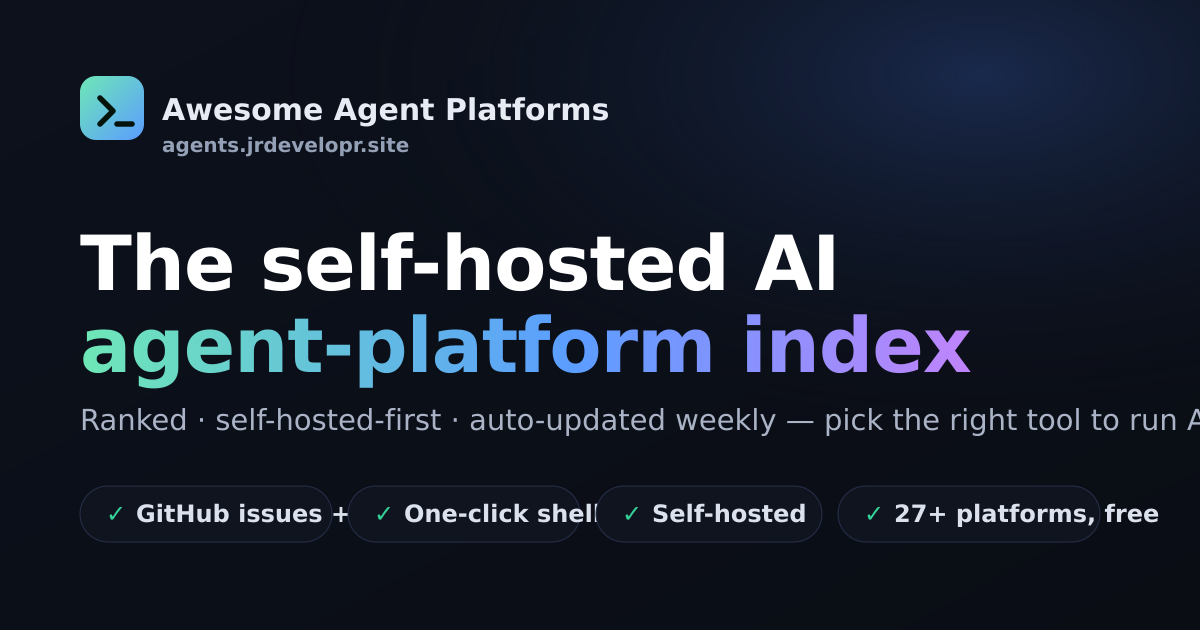
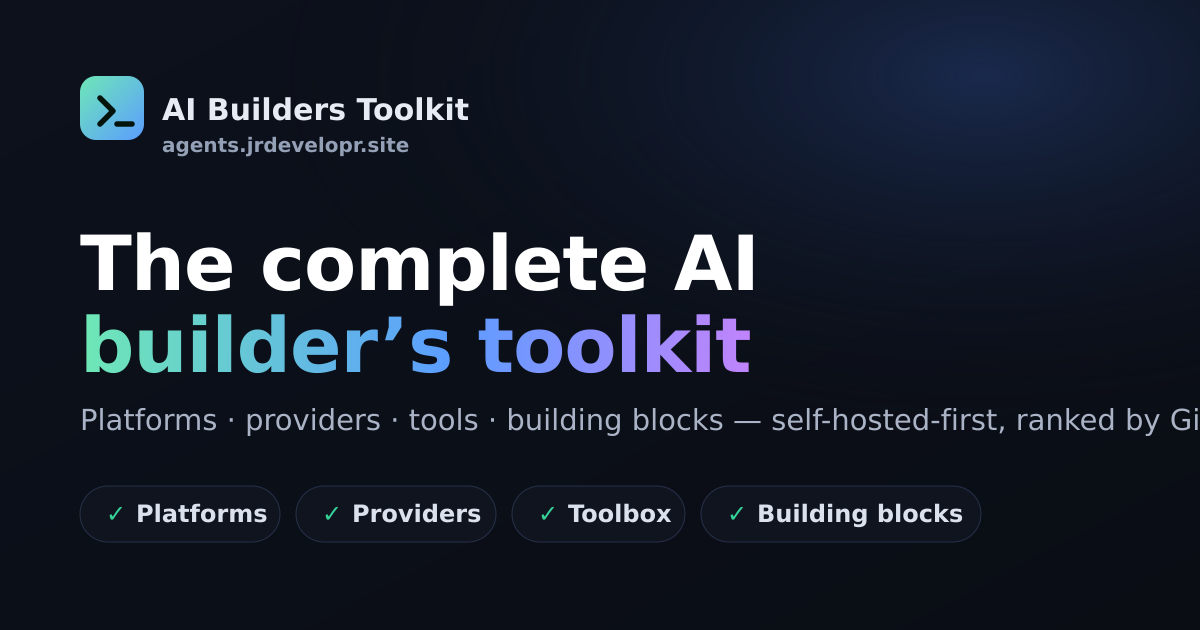
Rebrand site to 'AI Builders Toolkit' across UI + SEO + social card
The site now spans four tabs (platforms, providers, tools, building blocks),
so the 'Awesome Agent Platforms' brand is retired:
- Topbar brand + subtitle, <title>, meta description/keywords, og:* + twitter:*,
  JSON-LD name/description/keywords -> AI Builders Toolkit.
- Footer copyright, navigator.share title, privacy.html title/desc/brand.
- In-page GitHub links repointed to jrdevelopr/awesome-ai-builders-toolkit.
- og.svg headline/subtitle + four chips now mirror the four tabs; og.png regenerated.
- README/gen-readme.js header + discover.sh comment rebranded.

Closes #105

Changed region(s): [[0.0617, 0.3619, 1.0, 0.6937], [0.1233, 0.754, 0.9867, 0.8746], [0.1542, 0.1508, 0.5242, 0.2111]]

diff --git a/site/index.html b/site/index.html
@@ -3,23 +3,23 @@
 <head>
 <meta charset="utf-8" />
 <meta name="viewport" content="width=device-width, initial-scale=1" />
-<title>Awesome Agent Platforms — Self-Hosted AI Agent Platform Comparison &amp; Ranking</title>
-<meta name="description" content="Awesome Agent Platforms: a ranked, continuously-updated comparison of self-hosted (and notable paid) AI coding-agent platforms — GitHub issue sync, one-click shell, multi-model, multi-login, mobile. Find the best tool to run and manage AI coding agents." />
-<meta name="keywords" content="AI agent platforms, agent orchestrators, agent orchestration, multi-agent orchestrator, coding agent orchestrator, agent manager, coding agents, self-hosted AI agents, Claude Code, Codex, OpenCode, parallel coding agents, git worktree agents, AI agent comparison, awesome agent platforms" />
+<title>AI Builders Toolkit — Compare AI Agent Platforms, Model Providers, Tools &amp; Building Blocks</title>
+<meta name="description" content="AI Builders Toolkit: a curated, continuously-updated comparison of AI agent platforms, AI model providers, agent tools, and embeddable AI building blocks — self-hosted-first, ranked by GitHub stars and real-world sentiment." />
+<meta name="keywords" content="AI builders toolkit, AI agent platforms, AI model providers, agent tools, AI building blocks, self-hosted AI agents, LLM providers, embeddings, TTS, STT, Claude Code, Codex, OpenCode, Ollama, vLLM, agent orchestration, AI agent comparison, awesome AI builders" />
 <link rel="canonical" href="https://agents.jrdevelopr.site/" />
 <meta name="robots" content="index, follow, max-image-preview:large" />
 <meta property="og:type" content="website" />
-<meta property="og:site_name" content="Awesome Agent Platforms" />
-<meta property="og:title" content="Awesome Agent Platforms — ranked, self-hosted-first comparison" />
-<meta property="og:description" content="A ranked, continuously-updated comparison of self-hosted AI coding-agent platforms — GitHub sync, one-click shell, multi-model, multi-login, mobile. Auto-updated weekly." />
+<meta property="og:site_name" content="AI Builders Toolkit" />
+<meta property="og:title" content="AI Builders Toolkit — compare the whole AI agent stack" />
+<meta property="og:description" content="A curated comparison of AI agent platforms, model providers, agent tools &amp; embeddable AI building blocks — self-hosted-first, ranked by GitHub stars. Auto-updated weekly." />
 <meta property="og:url" content="https://agents.jrdevelopr.site/" />
 <meta property="og:image" content="https://agents.jrdevelopr.site/og.png" />
 <meta property="og:image:width" content="1200" /><meta property="og:image:height" content="630" />
 <meta name="twitter:card" content="summary_large_image" />
-<meta name="twitter:title" content="Awesome Agent Platforms" />
-<meta name="twitter:description" content="Ranked, self-hosted-first comparison of AI coding-agent platforms — auto-updated weekly." />
+<meta name="twitter:title" content="AI Builders Toolkit" />
+<meta name="twitter:description" content="Curated comparison of AI agent platforms, model providers, tools &amp; building blocks — self-hosted-first, auto-updated weekly." />
 <meta name="twitter:image" content="https://agents.jrdevelopr.site/og.png" />
-<script type="application/ld+json">{"@context":"https://schema.org","@type":"WebSite","name":"Awesome Agent Platforms","alternateName":"awesome-ai-builders-toolkit","url":"https://agents.jrdevelopr.site/","description":"A ranked, self-hosted-first comparison of AI coding-agent platforms.","keywords":"AI agent platforms, coding agents, self-hosted, agent manager, comparison"}</script>
+<script type="application/ld+json">{"@context":"https://schema.org","@type":"WebSite","name":"AI Builders Toolkit","alternateName":"awesome-ai-builders-toolkit","url":"https://agents.jrdevelopr.site/","description":"A curated, self-hosted-first comparison of AI agent platforms, model providers, agent tools and embeddable AI building blocks.","keywords":"AI agent platforms, AI model providers, agent tools, AI building blocks, self-hosted, comparison"}</script>
 <link rel="icon" href="/favicon.ico" sizes="any" />
 <link rel="icon" type="image/svg+xml" href="/favicon.svg" />
 <link rel="icon" type="image/png" sizes="32x32" href="/favicon-32.png" />
@@ -369,13 +369,13 @@
   <div class="tbinner wrap">
     <a class="brand" href="#top">
       <span class="logo"><svg width="18" height="18" viewBox="0 0 24 24" fill="none" stroke="#04140d" stroke-width="2.5" stroke-linecap="round" stroke-linejoin="round"><path d="M5 7l5 5-5 5M13 17h6"/></svg></span>
-      Awesome Agent Platforms <span class="tag">ranked &amp; self-hosted-first</span>
+      AI Builders Toolkit <span class="tag">platforms · providers · tools · blocks</span>
     </a>
     <div class="tlinks">
-      <a class="iconbtn gh" href="https://github.com/jrdevelopr/awesome-agent-platforms" target="_blank" rel="noopener" title="View the source &amp; data on GitHub">
+      <a class="iconbtn gh" href="https://github.com/jrdevelopr/awesome-ai-builders-toolkit" target="_blank" rel="noopener" title="View the source &amp; data on GitHub">
         <svg width="17" height="17" viewBox="0 0 24 24" fill="currentColor"><path d="M12 .5C5.7.5.5 5.7.5 12c0 5.1 3.3 9.4 7.9 10.9.6.1.8-.2.8-.5v-1.8c-3.2.7-3.9-1.5-3.9-1.5-.5-1.3-1.3-1.7-1.3-1.7-1-.7.1-.7.1-.7 1.2.1 1.8 1.2 1.8 1.2 1 .1.8 1.2.8 1.2.6-1.6 2.6-1.6 2.9-1.2.1-.7.4-1.2.7-1.5-2.6-.3-5.3-1.3-5.3-5.7 0-1.3.5-2.3 1.2-3.1-.1-.3-.5-1.5.1-3.1 0 0 1-.3 3.3 1.2a11.5 11.5 0 016 0C17 4.6 18 4.9 18 4.9c.6 1.6.2 2.8.1 3.1.8.8 1.2 1.8 1.2 3.1 0 4.4-2.7 5.4-5.3 5.7.4.4.8 1.1.8 2.2v3.3c0 .3.2.6.8.5 4.6-1.5 7.9-5.8 7.9-10.9C23.5 5.7 18.3.5 12 .5z"/></svg>
         <span class="lbl">GitHub</span></a>
-      <a class="iconbtn" href="https://github.com/jrdevelopr/awesome-agent-platforms/issues/new?title=Suggest%20a%20platform:%20" target="_blank" rel="noopener" title="Suggest a platform to add">
+      <a class="iconbtn" href="https://github.com/jrdevelopr/awesome-ai-builders-toolkit/issues/new?title=Suggest%20a%20platform:%20" target="_blank" rel="noopener" title="Suggest a platform to add">
         <svg width="17" height="17" viewBox="0 0 24 24" fill="none" stroke="currentColor" stroke-width="2"><circle cx="12" cy="12" r="9.5"/><path d="M12 8v8M8 12h8"/></svg>
         <span class="lbl">Suggest</span></a>
       <button class="iconbtn" id="shareBtn" title="Copy a shareable link">
@@ -612,14 +612,14 @@
   <footer>
     <p><b style="color:var(--txt)">How to read this.</b> Platforms are <b style="color:var(--txt)">listed alphabetically</b> — no personal ranking; click any row to expand its full detail, and use the tiles to filter. <b style="color:var(--txt)">★ stars</b> next to each name are current GitHub stargazers (a rough popularity signal); closed-source products show <span class="stars none" style="font-size:10px">— ☆</span>. The <b style="color:var(--txt)">Bottom line</b> is a neutral summary of real user sentiment (from Reddit, Hacker News, GitHub &amp; reviews — praise + main gripe), refreshed periodically; very new tools are flagged as having little feedback yet. “Multiple logins” = isolate separate Claude/agent subscriptions per project. <b style="color:var(--txt)">Self-hosted</b> ✓ = runs entirely on your own machines (not the vendor's servers) — free-but-cloud-only scores ➖/~. <b style="color:var(--txt)">Mobile</b>: <span class="mark mk-y" style="width:18px;height:18px">✓</span> dedicated app or mobile-first · <span class="mark mk-p" style="width:18px;height:18px">~</span> usable from a mobile browser, no native app · <span class="mark mk-n" style="width:18px;height:18px">–</span> desktop / SSH only.</p>
     <div class="hr"></div>
-    <p class="src">Capabilities from official docs &amp; repos checked June 20, 2026; GitHub stars &amp; user sentiment sampled the same week (both move — treat as a snapshot). “–”/“~” used instead of guessing. Projects = the platform's own project/task board or PM-tool integration (Linear, Jira, GitHub Projects). Prices are list-price estimates — verify before buying. Independent comparison, free to share — <a href="https://github.com/jrdevelopr/awesome-agent-platforms" target="_blank" rel="noopener">source &amp; data on GitHub</a>. <span id="count"></span></p>
+    <p class="src">Capabilities from official docs &amp; repos checked June 20, 2026; GitHub stars &amp; user sentiment sampled the same week (both move — treat as a snapshot). “–”/“~” used instead of guessing. Projects = the platform's own project/task board or PM-tool integration (Linear, Jira, GitHub Projects). Prices are list-price estimates — verify before buying. Independent comparison, free to share — <a href="https://github.com/jrdevelopr/awesome-ai-builders-toolkit" target="_blank" rel="noopener">source &amp; data on GitHub</a>. <span id="count"></span></p>
     <nav class="fnav">
       <a href="/privacy.html">Privacy Policy</a>
       <span class="sep">·</span>
-      <a href="https://github.com/jrdevelopr/awesome-agent-platforms" target="_blank" rel="noopener">GitHub</a>
+      <a href="https://github.com/jrdevelopr/awesome-ai-builders-toolkit" target="_blank" rel="noopener">GitHub</a>
       <span class="sep">·</span>
-      <a href="https://github.com/jrdevelopr/awesome-agent-platforms/issues/new?title=Suggest%20a%20platform:%20" target="_blank" rel="noopener">Suggest a platform</a>
-      <span class="copy">© 2026 Awesome Agent Platforms · MIT</span>
+      <a href="https://github.com/jrdevelopr/awesome-ai-builders-toolkit/issues/new?title=Suggest%20a%20platform:%20" target="_blank" rel="noopener">Suggest a platform</a>
+      <span class="copy">© 2026 AI Builders Toolkit · MIT</span>
     </nav>
   </footer>
 </div>
@@ -972,7 +972,7 @@ function toast(msg){const t=document.getElementById('toast');t.textContent=msg;t
 // share button: native share if available, else copy link
 document.getElementById('shareBtn').addEventListener('click',async()=>{
   const url=location.href.split('#')[0];
-  try{ if(navigator.share){await navigator.share({title:'Awesome Agent Platforms — ranked comparison',url});return;} }catch(e){}
+  try{ if(navigator.share){await navigator.share({title:'AI Builders Toolkit — ranked comparison',url});return;} }catch(e){}
   try{ await navigator.clipboard.writeText(url); toast('Link copied — share away ✓'); }
   catch(e){ toast(url); }
 });

diff --git a/site/privacy.html b/site/privacy.html
@@ -3,8 +3,8 @@
 <head>
 <meta charset="utf-8" />
 <meta name="viewport" content="width=device-width, initial-scale=1" />
-<title>Privacy Policy — Awesome Agent Platforms</title>
-<meta name="description" content="Privacy policy for the Awesome Agent Platforms comparison site — no tracking, no accounts, no analytics." />
+<title>Privacy Policy — AI Builders Toolkit</title>
+<meta name="description" content="Privacy policy for the AI Builders Toolkit comparison site — no tracking, no accounts, no analytics." />
 <meta name="robots" content="index, follow" />
 <link rel="canonical" href="https://agents.jrdevelopr.site/privacy.html" />
 <link rel="icon" href="/favicon.ico" sizes="any" />
@@ -37,7 +37,7 @@
 <div class="wrap">
   <header>
     <span class="logo"><svg width="19" height="19" viewBox="0 0 24 24" fill="none" stroke="#04140d" stroke-width="2.5" stroke-linecap="round" stroke-linejoin="round"><path d="M5 7l5 5-5 5M13 17h6"/></svg></span>
-    <a class="brand" href="/">Awesome Agent Platforms</a>
+    <a class="brand" href="/">AI Builders Toolkit</a>
   </header>
 
   <h1>Privacy Policy</h1>
@@ -66,7 +66,7 @@
     <p>This site is not directed at children and knowingly collects no personal information from anyone.</p>
 
     <h2>Changes &amp; contact</h2>
-    <p>If this policy changes, the "last updated" date above will change with it. Questions or corrections? <a href="https://github.com/jrdevelopr/awesome-agent-platforms/issues/new" target="_blank" rel="noopener">Open an issue on GitHub</a>.</p>
+    <p>If this policy changes, the "last updated" date above will change with it. Questions or corrections? <a href="https://github.com/jrdevelopr/awesome-ai-builders-toolkit/issues/new" target="_blank" rel="noopener">Open an issue on GitHub</a>.</p>
   </div>
 
   <a class="back" href="/">← Back to the comparison</a>

diff --git a/bin/gen-readme.js b/bin/gen-readme.js
@@ -29,7 +29,7 @@ const cost = c => c.t === 'paid' ? `💲 **Paid** <br><sub>${esc(c.price)}</sub>
               : `Free <br><sub>${esc(c.price)}</sub>`;
 
 const header = `<!-- This file is AUTO-GENERATED from site/index.html by bin/gen-readme.js. Do not edit by hand. -->
-# Awesome Agent Platforms [![Awesome](https://awesome.re/badge-flat2.svg)](https://awesome.re)
+# AI Builders Toolkit [![Awesome](https://awesome.re/badge-flat2.svg)](https://awesome.re)
 
 [![Live site](https://img.shields.io/badge/live-agents.jrdevelopr.site-2563eb?logo=googlechrome&logoColor=white)](https://agents.jrdevelopr.site) [![Platforms](https://img.shields.io/badge/platforms-${P.length}-0e9f6e)](https://agents.jrdevelopr.site) [![Auto-updated weekly](https://img.shields.io/badge/auto--updated-weekly-7c3aed)](bin/discover.sh) [![License: MIT](https://img.shields.io/badge/license-MIT-blue)](LICENSE)
 

diff --git a/CLAUDE.md b/CLAUDE.md
@@ -1,4 +1,4 @@
-# agents — Awesome Agent Platforms comparison site (tracked)
+# agents — AI Builders Toolkit comparison site (tracked)
 
 Public one-page comparison of self-hosted (and notable paid) AI agent platforms.
 

diff --git a/README.md b/README.md
@@ -1,5 +1,5 @@
 <!-- This file is AUTO-GENERATED from site/index.html by bin/gen-readme.js. Do not edit by hand. -->
-# Awesome Agent Platforms [![Awesome](https://awesome.re/badge-flat2.svg)](https://awesome.re)
+# AI Builders Toolkit [![Awesome](https://awesome.re/badge-flat2.svg)](https://awesome.re)
 
 [![Live site](https://img.shields.io/badge/live-agents.jrdevelopr.site-2563eb?logo=googlechrome&logoColor=white)](https://agents.jrdevelopr.site) [![Platforms](https://img.shields.io/badge/platforms-57-0e9f6e)](https://agents.jrdevelopr.site) [![Auto-updated weekly](https://img.shields.io/badge/auto--updated-weekly-7c3aed)](bin/discover.sh) [![License: MIT](https://img.shields.io/badge/license-MIT-blue)](LICENSE)
 